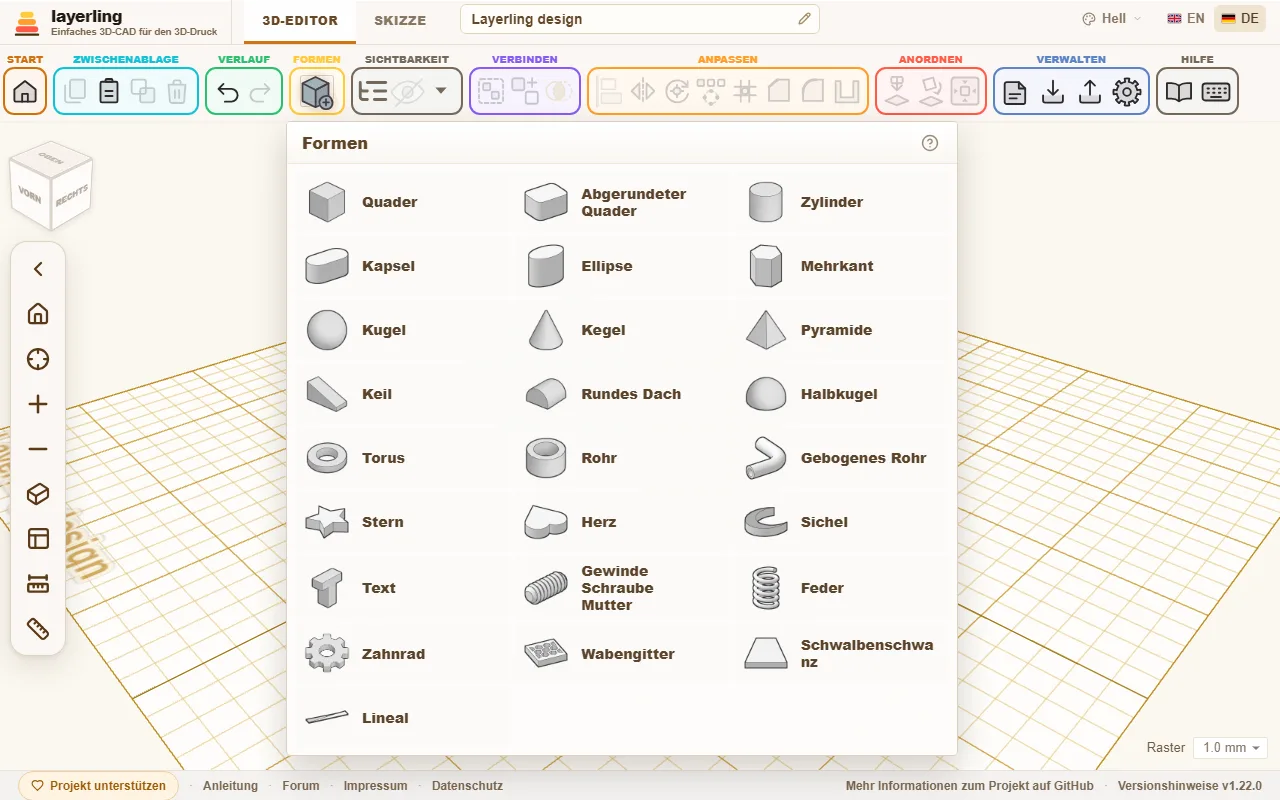
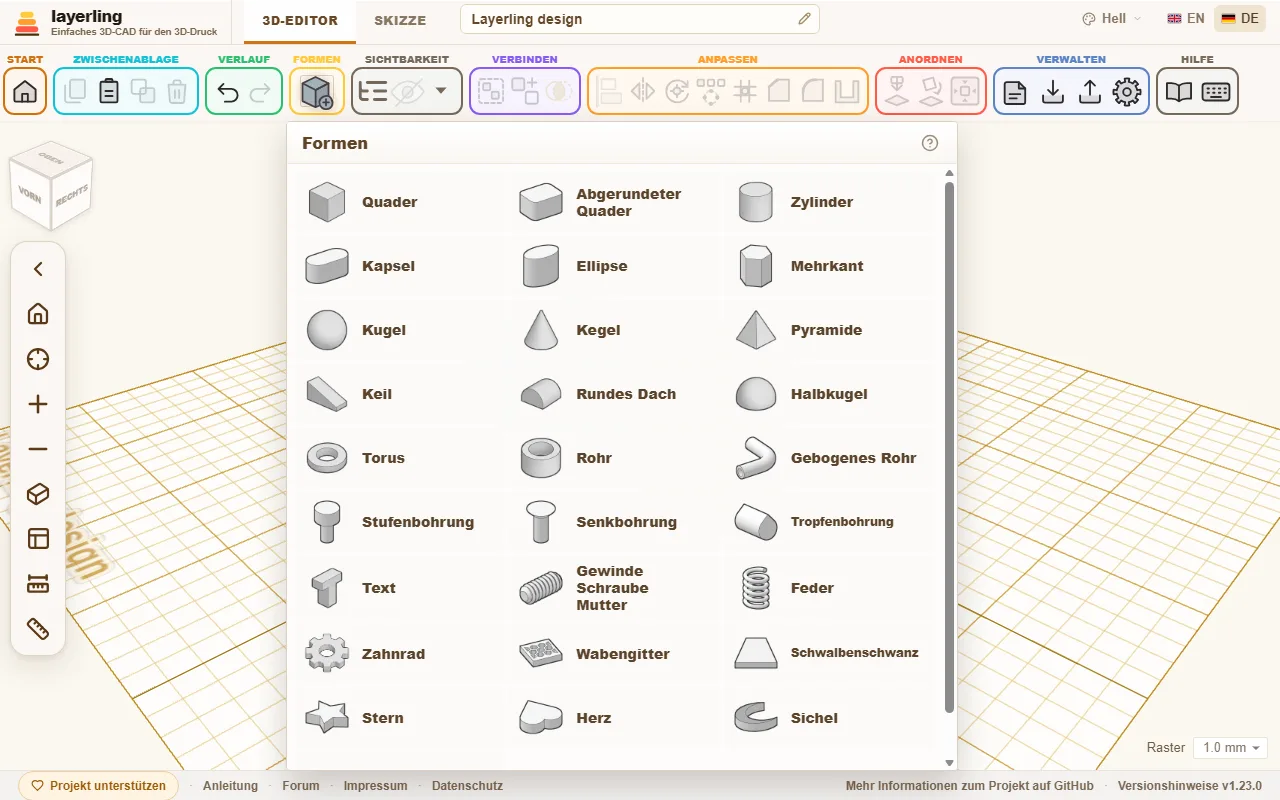
release: 1.23.0
Teardrop, counterbore and countersink shapes; more shapes as exact CAD
bodies (ellipse, oval cylinder, tube, half sphere, round roof, rounded
box); STEP export of outline shapes; side-count sliders and guide section;
finer meshes for small fillets (#50) and sketch zoom like the 3D editor
(#49); guide pictures of the shape menu and start page retaken.

diff --git a/apps/web/src/components/LayerlingEditor.tsx b/apps/web/src/components/LayerlingEditor.tsx
@@ -12105,7 +12105,7 @@ function SecondaryToolbar({
                     onDragEnd={() => setShapesOpen(false)}
                   >
                     <img src={shape.menuIcon} alt="" draggable={false} />
-                    <span>{shapeAssetMenuLabel(shape)}</span>
+                    <span className={shapeAssetMenuLabel(shape).split(/\s+/).some((word) => word.length > 13) ? "long-word" : undefined}>{shapeAssetMenuLabel(shape)}</span>
                   </button>
                 ))}
               </div>

diff --git a/apps/web/src/lib/lylProject.ts b/apps/web/src/lib/lylProject.ts
@@ -24,7 +24,7 @@ function knownSchema(schema: unknown) {
 export const LYL_FORMAT_VERSION = 2;
 export const LYL_MINIMUM_READER_VERSION = 2;
 export const LYL_OLDEST_READABLE_FORMAT_VERSION = 1;
-export const LYL_CREATED_WITH_VERSION = "1.22.1";
+export const LYL_CREATED_WITH_VERSION = "1.23.0";
 export const LYL_MEDIA_TYPE = "application/vnd.layerling.project+zip";
 
 export const LYL_LIMITS = {

diff --git a/apps/web/src/app/globals.css b/apps/web/src/app/globals.css
@@ -3768,6 +3768,11 @@ button {
   white-space: pre-line;
 }
 
+/* One long word ("Schwalbenschwanz") cannot wrap; it gets a smaller size instead of breaking in the middle. */
+.shape-menu-item span.long-word {
+  font-size: 0.85em;
+}
+
 .action-buttons button {
   box-sizing: border-box;
   display: inline-flex;
